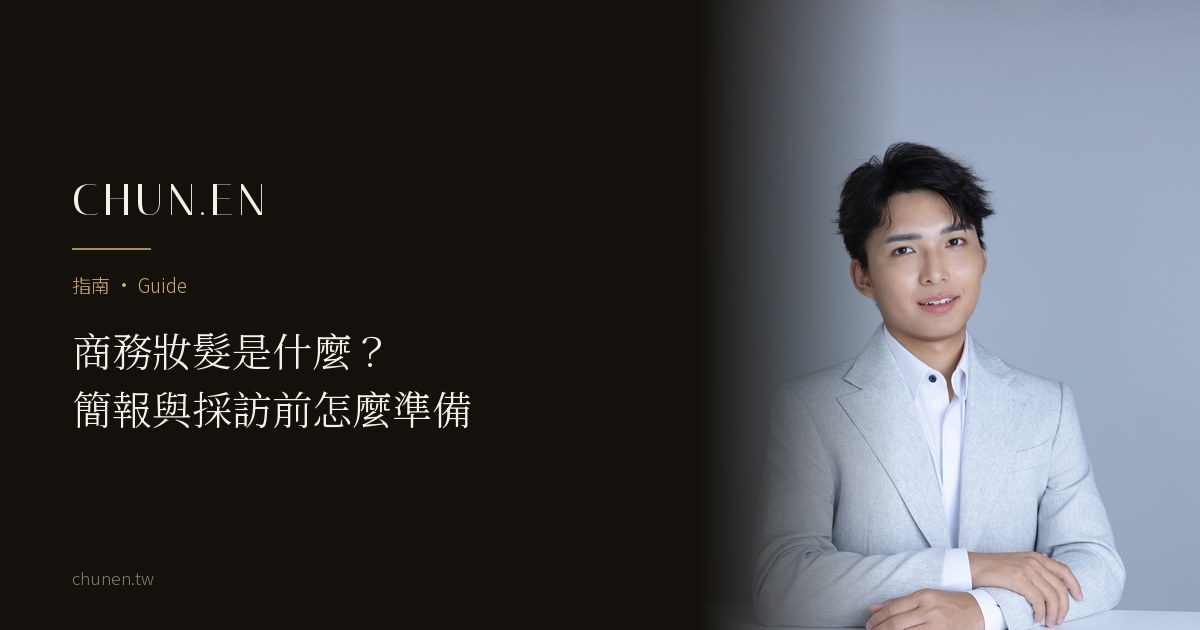
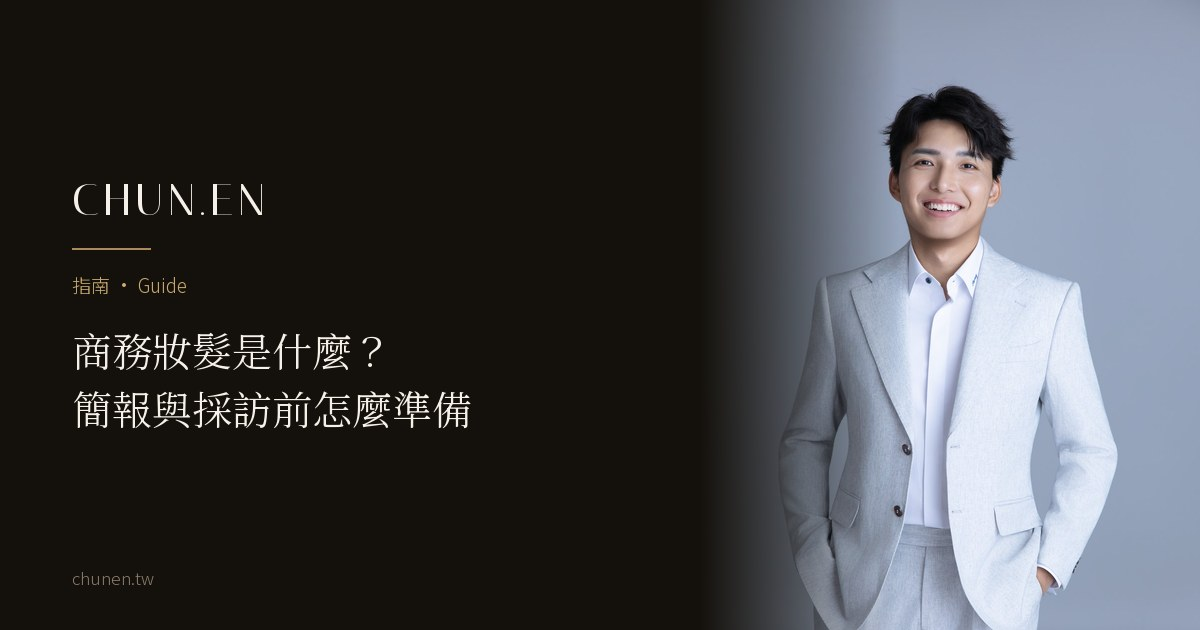
journal(商務篇)：hero 改用 1-6（user 指定）
站姿全身、雙手插口袋、正面微笑，比原本的 1-2 半身多帶到整體輪廓，
西裝的線條也看得完整。

Changed region(s): [[0.6167, 0.1206, 1.0, 1.0]]

diff --git a/journal/business-hair-makeup.html b/journal/business-hair-makeup.html
@@ -77,7 +77,7 @@
 
     <div class="wrap article-wrap">
       <div class="jcard-media rv" style="aspect-ratio: auto; width: auto; max-width: 620px; margin: 0 auto clamp(2.5rem, 6vh, 4rem);">
-        <picture style="display:block"><source type="image/webp" srcset="../assets/gallery/journal/business-hair-makeup-hero-v3-760.webp 760w, ../assets/gallery/journal/business-hair-makeup-hero-v3-1240.webp 1240w" sizes="(max-width: 700px) calc(100vw - 40px), 620px" /><img src="../assets/gallery/journal/business-hair-makeup-hero-v3-1400.jpg" alt="白棚人物半身照，淺灰西裝與白襯衫，髮型與妝面整理乾淨" style="width:100%;height:auto;display:block;" width="1400" height="2100" fetchpriority="high" /></picture>
+        <picture style="display:block"><source type="image/webp" srcset="../assets/gallery/journal/business-hair-makeup-hero-v4-760.webp 760w, ../assets/gallery/journal/business-hair-makeup-hero-v4-1240.webp 1240w" sizes="(max-width: 700px) calc(100vw - 40px), 620px" /><img src="../assets/gallery/journal/business-hair-makeup-hero-v4-1400.jpg" alt="白棚人物站姿，淺灰西裝與白襯衫，雙手插口袋，髮型與妝面整理乾淨" style="width:100%;height:auto;display:block;" width="1400" height="2100" fetchpriority="high" /></picture>
       </div>
 
       <div class="keypoints rv">
